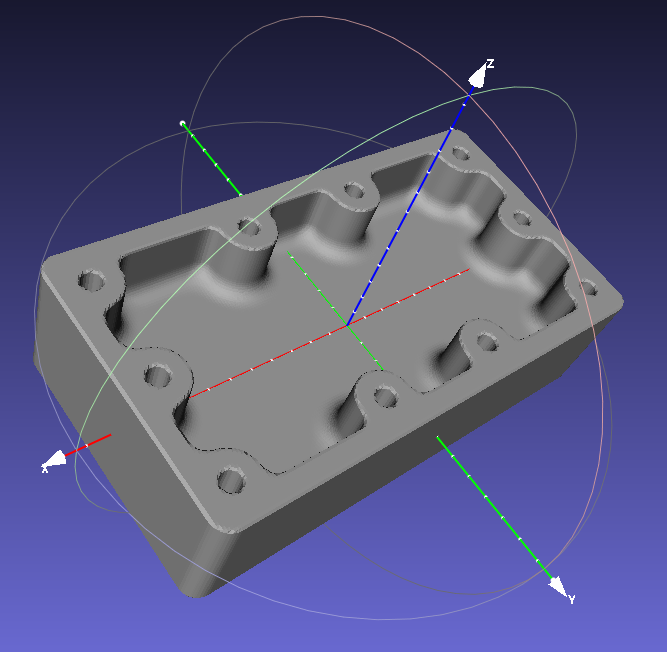
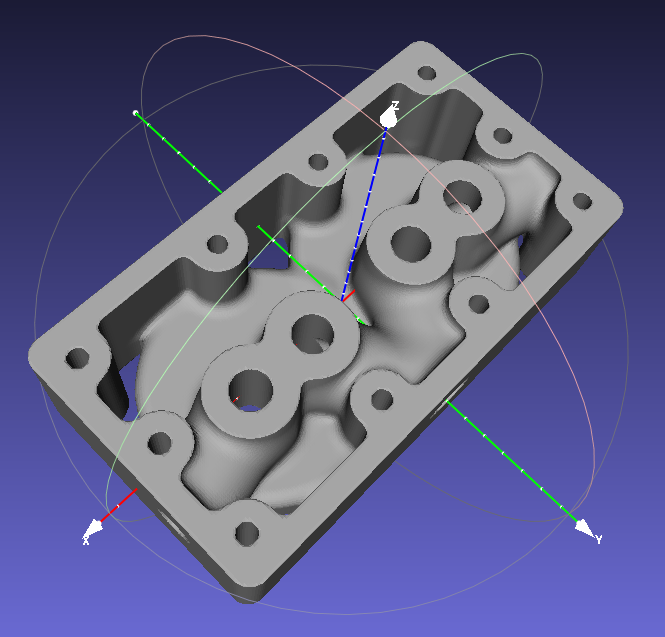
Working on the cylinder head.

diff --git a/examples/cylinder_head/main.go b/examples/cylinder_head/main.go
@@ -35,7 +35,62 @@ func dim(x float64) float64 {
 	return x * desired_scale * MM_PER_INCH * al_shrink * pla_shrink
 }
 
-var general_round = dim(0.125)
+var general_round = dim(0.1)
+
+//-----------------------------------------------------------------------------
+// exhaust bosses
+
+var eb_side_radius = dim(5.0 / 32.0)
+var eb_main_radius = dim(5.0 / 16.0)
+var eb_hole_radius = dim(3.0 / 16.0)
+var eb_c2c_distance = dim(13.0 / 16.0)
+var eb_distance = eb_c2c_distance / 2.0
+
+var eb_y_offset = (head_width / 2.0) - eb_distance - eb_side_radius
+var eb_z_offset = dim(1.0 / 16.0)
+var eb_height = dim(1.0 / 8.0)
+
+//-----------------------------------------------------------------------------
+// valve bosses
+
+var valve_diameter = dim(1.0 / 4.0)
+var valve_radius = valve_diameter / 2.0
+var valve_y_offset = dim(1.0 / 8.0)
+var valve_wall = dim(5.0 / 32.0)
+var v2v_distance = dim(1.0 / 2.0)
+var valve_draft = DtoR(5)
+
+func valve(d float64, mode string) SDF3 {
+
+	var s SDF3
+	h := head_height - cylinder_height
+
+	if mode == "boss" {
+		delta := h * math.Tan(valve_draft)
+		r1 := valve_radius + valve_wall
+		r0 := r1 + delta
+		s = NewConeSDF3(h, r0, r1, 0)
+	} else if mode == "hole" {
+		s = NewCylinderSDF3(h, valve_radius, 0)
+	} else {
+		panic("bad mode")
+	}
+
+	z_ofs := cylinder_height / 2
+	return NewTransformSDF3(s, Translate3d(V3{d, valve_y_offset, z_ofs}))
+}
+
+func valve_set(d float64, mode string) SDF3 {
+	delta := v2v_distance / 2
+	s := NewUnionSDF3(valve(-delta, mode), valve(delta, mode))
+	s.(*UnionSDF3).SetMin(PolyMin, general_round)
+	return NewTransformSDF3(s, Translate3d(V3{d, 0, 0}))
+}
+
+func valve_sets(mode string) SDF3 {
+	delta := c2c_distance / 2
+	return NewUnionSDF3(valve_set(-delta, mode), valve_set(delta, mode))
+}
 
 //-----------------------------------------------------------------------------
 // cylinder domes (or full base)
@@ -47,34 +102,41 @@ var cylinder_radius = cylinder_diameter / 2.0
 
 var dome_radius = cylinder_wall + cylinder_radius
 var dome_height = cylinder_wall + cylinder_height
-var dome_draft = DtoR(12)
+var dome_draft = DtoR(5)
 
 var c2c_distance = dim(1.0 + (3.0 / 8.0))
 
-func cylinder_head() SDF3 {
-	delta := dome_height * math.Tan(dome_draft)
-	// build the cylinder dome cross section
-	s := NewSmoother(false)
-	s.Add(V2{0, 0})
-	s.Add(V2{dome_radius + delta, 0})
-	s.AddSmooth(V2{dome_radius, dome_height}, 4, general_round)
-	s.Add(V2{0, dome_height})
-	s.Smooth()
-	return NewSorSDF3(NewPolySDF2(s.Vertices()))
-}
+func cylinder_head(d float64, mode string) SDF3 {
+	var s SDF3
 
-func cylinder_chamber() SDF3 {
-	return NewCylinderSDF3(cylinder_height, cylinder_radius, 0.0)
-}
-
-func cylinder_heads() SDF3 {
-	s0 := cylinder_head()
-	d := c2c_distance / 2
-	s1 := NewTransformSDF3(s0, Translate3d(V3{0, d, 0}))
-	s2 := NewTransformSDF3(s0, Translate3d(V3{0, -d, 0}))
-	s := NewUnionSDF3(s1, s2)
-	s.(*UnionSDF3).SetMin(PolyMin, general_round)
+	if mode == "dome" {
+		z_ofs := (head_height - dome_height) / 2
+		extra_z := general_round * 2
+		s = NewCylinderSDF3(dome_height+extra_z, dome_radius, general_round)
+		s = NewTransformSDF3(s, Translate3d(V3{d, 0, -z_ofs - extra_z}))
+	} else if mode == "chamber" {
+		z_ofs := (head_height - cylinder_height) / 2
+		s = NewCylinderSDF3(cylinder_height, cylinder_radius, 0)
+		s = NewTransformSDF3(s, Translate3d(V3{d, 0, -z_ofs}))
+	} else {
+		panic("bad mode")
+	}
 	return s
+}
+
+func cylinder_heads(mode string) SDF3 {
+	x_ofs := c2c_distance / 2
+	s := NewUnionSDF3(cylinder_head(-x_ofs, mode), cylinder_head(x_ofs, mode))
+	if mode == "dome" {
+		s.(*UnionSDF3).SetMin(PolyMin, general_round)
+	}
+	return s
+}
+
+func head_base() SDF3 {
+	z_ofs := (head_height - dome_height) / 2
+	s := NewExtrudeSDF3(head_wall_inner_2d(), dome_height)
+	return NewTransformSDF3(s, Translate3d(V3{0, 0, -z_ofs}))
 }
 
 //-----------------------------------------------------------------------------
@@ -111,7 +173,6 @@ var head_length = dim(4.30 / 1.25)
 var head_width = dim(2.33 / 1.25)
 var head_height = dim(7.0 / 8.0)
 var head_corner_round = dim((5.0 / 32.0) / 1.25)
-var head_internal_round = dim(0.125)
 var head_wall_thickness = dim(0.154)
 
 func head_wall_outer_2d() SDF2 {
@@ -124,7 +185,7 @@ func head_wall_inner_2d() SDF2 {
 	s0 := NewBoxSDF2(V2{l, w}, 0)
 	s1 := NewMultiCircleSDF2(stud_boss_radius, stud_locations)
 	s := NewDifferenceSDF2(s0, s1)
-	s.(*DifferenceSDF2).SetMax(PolyMax, head_internal_round)
+	s.(*DifferenceSDF2).SetMax(PolyMax, general_round)
 	return s
 }
 
@@ -138,42 +199,99 @@ func head_wall() SDF3 {
 	return NewExtrudeSDF3(s, head_height)
 }
 
-func head_base() SDF3 {
-	delta := head_height - dome_height
-	s := NewExtrudeSDF3(head_wall_inner_2d(), dome_height)
-	m := Translate3d(V3{0, 0, -delta / 2})
-	s = NewTransformSDF3(s, m)
+//-----------------------------------------------------------------------------
+// manifolds
+
+var manifold_radius = dim(4.5 / 16.0)
+var manifold_hole_radius = dim(1.0 / 8.0)
+var inlet_theta = 30.2564
+var exhaust_theta = 270.0 + 13.9736
+var exhaust_x_offset = (c2c_distance / 2) + (v2v_distance / 2)
+var inlet_x_offset = (c2c_distance / 2) - (v2v_distance / 2)
+
+func manifold_set(r float64) SDF3 {
+
+	h := dim(2)
+
+	s_ex := NewCylinderSDF3(h, r, 0)
+	m := Translate3d(V3{0, 0, h / 2})
+	m = RotateX(DtoR(-90)).Mul(m)
+	m = RotateZ(DtoR(exhaust_theta)).Mul(m)
+	m = Translate3d(V3{exhaust_x_offset, valve_y_offset, eb_z_offset}).Mul(m)
+	s_ex = NewTransformSDF3(s_ex, m)
+
+	s_in := NewCylinderSDF3(h, r, 0)
+	m = Translate3d(V3{0, 0, h / 2})
+	m = RotateX(DtoR(-90)).Mul(m)
+	m = RotateZ(DtoR(inlet_theta)).Mul(m)
+	m = Translate3d(V3{inlet_x_offset, valve_y_offset, eb_z_offset}).Mul(m)
+	s_in = NewTransformSDF3(s_in, m)
+
+	return NewUnionSDF3(s_ex, s_in)
+}
+
+func manifolds(mode string) SDF3 {
+
+	var r float64
+
+	if mode == "body" {
+		r = manifold_radius
+	} else if mode == "hole" {
+		r = manifold_hole_radius
+	} else {
+		panic("bad mode")
+	}
+
+	s0 := manifold_set(r)
+	s1 := NewTransformSDF3(s0, MirrorYZ())
+	s := NewUnionSDF3(s0, s1)
+	if mode == "body" {
+		s.(*UnionSDF3).SetMin(PolyMin, general_round)
+	}
+
 	return s
 }
 
 //-----------------------------------------------------------------------------
 
 func additive() SDF3 {
-	s := NewUnionSDF3(head_wall(), head_base())
-	s.(*UnionSDF3).SetMin(PolyMin, head_internal_round)
+	var s SDF3
+	s = NewUnionSDF3(s, head_wall())
+	//s = NewUnionSDF3(s, head_base())
+
+	s = NewUnionSDF3(s, cylinder_heads("dome"))
+	s.(*UnionSDF3).SetMin(PolyMin, general_round)
+
+	s = NewUnionSDF3(s, valve_sets("boss"))
+	s.(*UnionSDF3).SetMin(PolyMin, general_round)
+
+	s = NewUnionSDF3(s, manifolds("body"))
+	s.(*UnionSDF3).SetMin(PolyMin, general_round)
+
 	// cleanup the blending artifacts on the outside
 	s = NewIntersectionSDF3(s, head_envelope())
-
 	return s
 }
 
 //-----------------------------------------------------------------------------
 
-func subtractive(s SDF3) SDF3 {
-	s = NewDifferenceSDF3(s, head_stud_holes())
+func subtractive() SDF3 {
+	var s SDF3
+	if casting {
+	} else {
+		s = NewUnionSDF3(s, cylinder_heads("chamber"))
+		s = NewUnionSDF3(s, head_stud_holes())
+		s = NewUnionSDF3(s, valve_sets("hole"))
+		s = NewUnionSDF3(s, manifolds("hole"))
+	}
 	return s
 }
 
 //-----------------------------------------------------------------------------
 
 func main() {
-	s := additive()
-	if !casting {
-		s = subtractive(s)
-	}
+	s := NewDifferenceSDF3(additive(), subtractive())
 	RenderSTL(s, "head.stl")
-	//RenderSTL(cylinder_heads(), "head2.stl")
-
 }
 
 //-----------------------------------------------------------------------------

diff --git a/sdf/sdf3.go b/sdf/sdf3.go
@@ -480,6 +480,12 @@ type UnionSDF3 struct {
 
 // Return the union of two SDF3 objects.
 func NewUnionSDF3(s0, s1 SDF3) SDF3 {
+	if s0 == nil {
+		return s1
+	}
+	if s1 == nil {
+		return s0
+	}
 	s := UnionSDF3{}
 	s.s0 = s0
 	s.s1 = s1
@@ -517,6 +523,12 @@ type DifferenceSDF3 struct {
 
 // Return the difference of two SDF3 objects, s0 - s1.
 func NewDifferenceSDF3(s0, s1 SDF3) SDF3 {
+	if s1 == nil {
+		return s0
+	}
+	if s0 == nil {
+		return nil
+	}
 	s := DifferenceSDF3{}
 	s.s0 = s0
 	s.s1 = s1
@@ -554,10 +566,14 @@ type IntersectionSDF3 struct {
 
 // Return the intersection of two SDF3 objects, s0 with s1.
 func NewIntersectionSDF3(s0, s1 SDF3) SDF3 {
+	if s0 == nil || s1 == nil {
+		return nil
+	}
 	s := IntersectionSDF3{}
 	s.s0 = s0
 	s.s1 = s1
 	s.max = NormalMax
+	// TODO fix bounding box
 	s.bb = s0.BoundingBox()
 	return &s
 }

diff --git a/sdf/matrix.go b/sdf/matrix.go
@@ -143,6 +143,16 @@ func RotateZ(a float64) M44 {
 	return Rotate3d(V3{0, 0, 1}, a)
 }
 
+// TODO - generalise for other mirror planes
+// Mirror across the YZ plane
+func MirrorYZ() M44 {
+	return M44{
+		-1, 0, 0, 0,
+		0, 1, 0, 0,
+		0, 0, 1, 0,
+		0, 0, 0, 1}
+}
+
 // Return an orthographic 2d rotation matrix (right hand rule)
 func Rotate2d(a float64) M33 {
 	s := math.Sin(a)

diff --git a/sdf/sdf2.go b/sdf/sdf2.go
@@ -465,6 +465,12 @@ type DifferenceSDF2 struct {
 
 // Return the difference of two SDF2 objects, s0 - s1.
 func NewDifferenceSDF2(s0, s1 SDF2) SDF2 {
+	if s1 == nil {
+		return s0
+	}
+	if s0 == nil {
+		return nil
+	}
 	s := DifferenceSDF2{}
 	s.s0 = s0
 	s.s1 = s1

diff --git a/sdf/marching.go b/sdf/marching.go
@@ -23,8 +23,7 @@ type LayerYZ struct {
 }
 
 func NewLayerYZ(base, inc V3, steps V3i) *LayerYZ {
-	l := LayerYZ{base, inc, steps, nil, nil}
-	return &l
+	return &LayerYZ{base, inc, steps, nil, nil}
 }
 
 // Evaluate the SDF for a given XY layer
